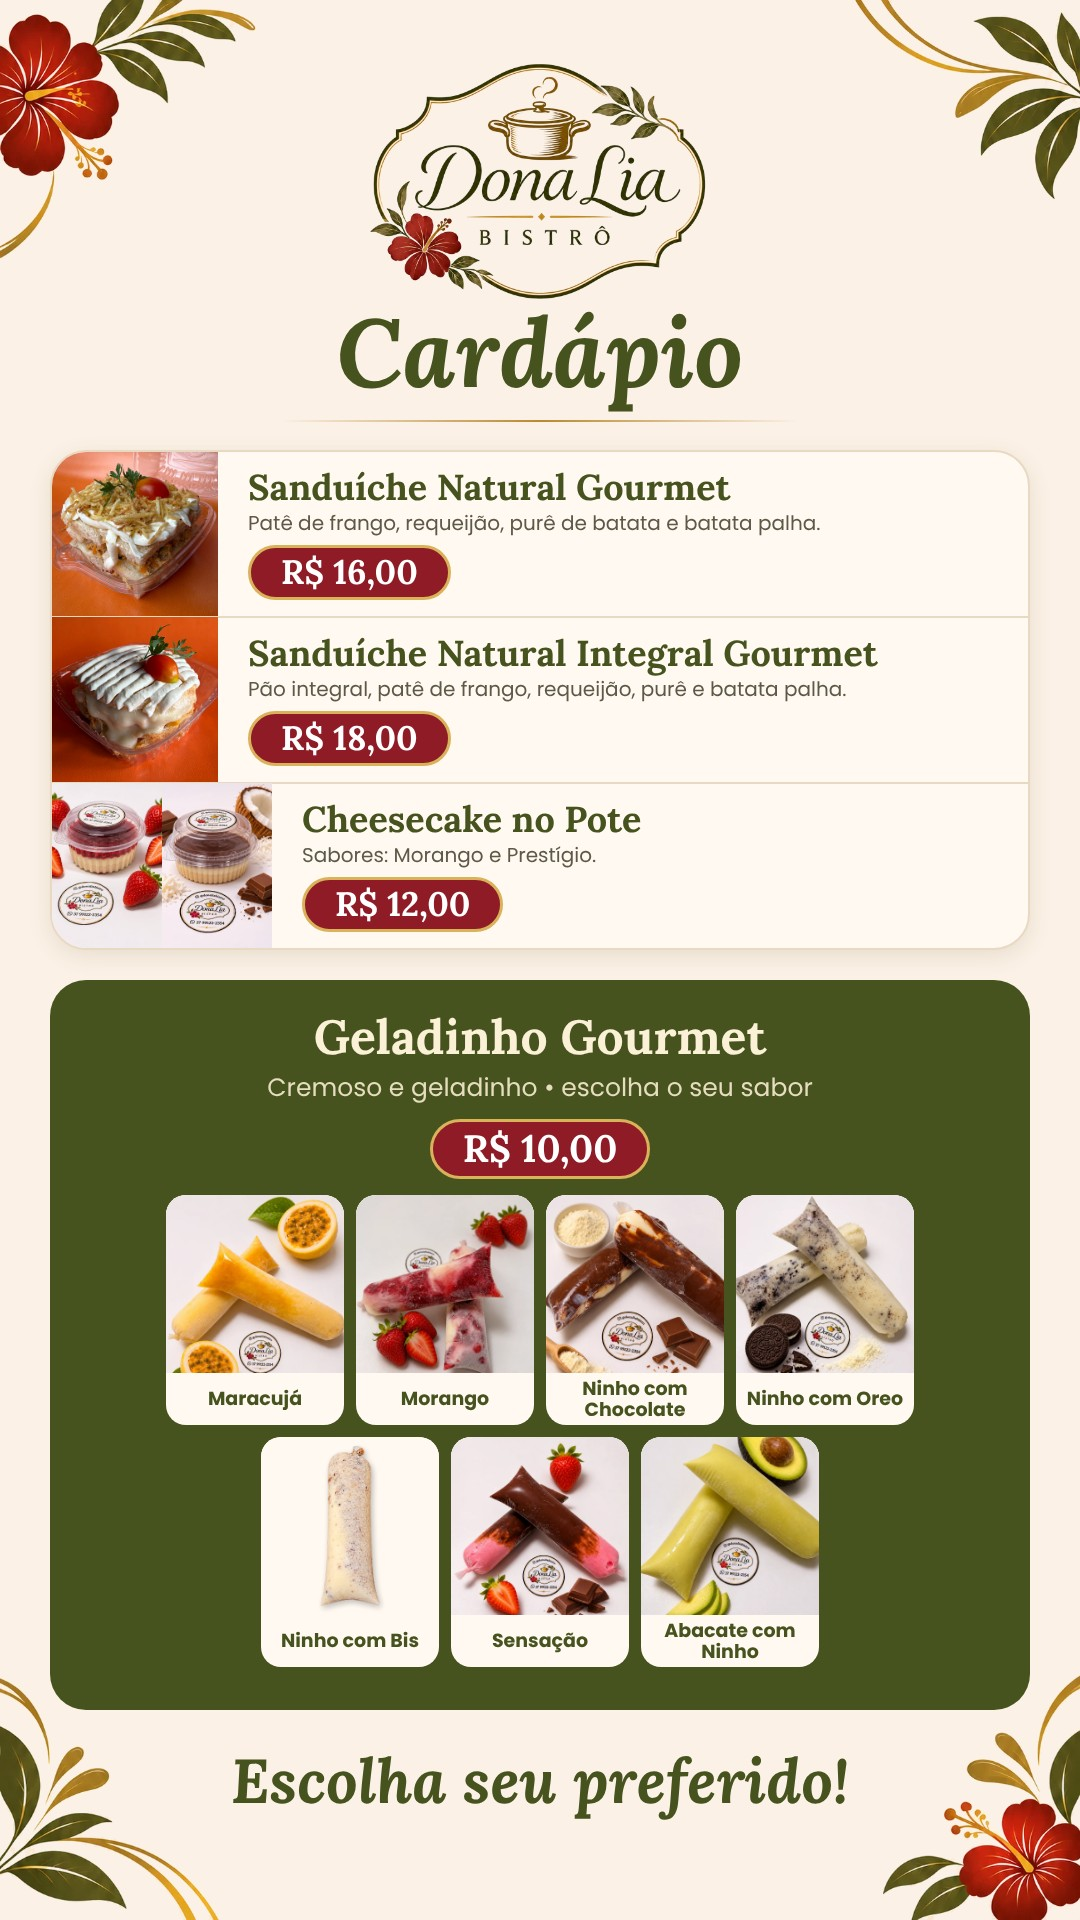
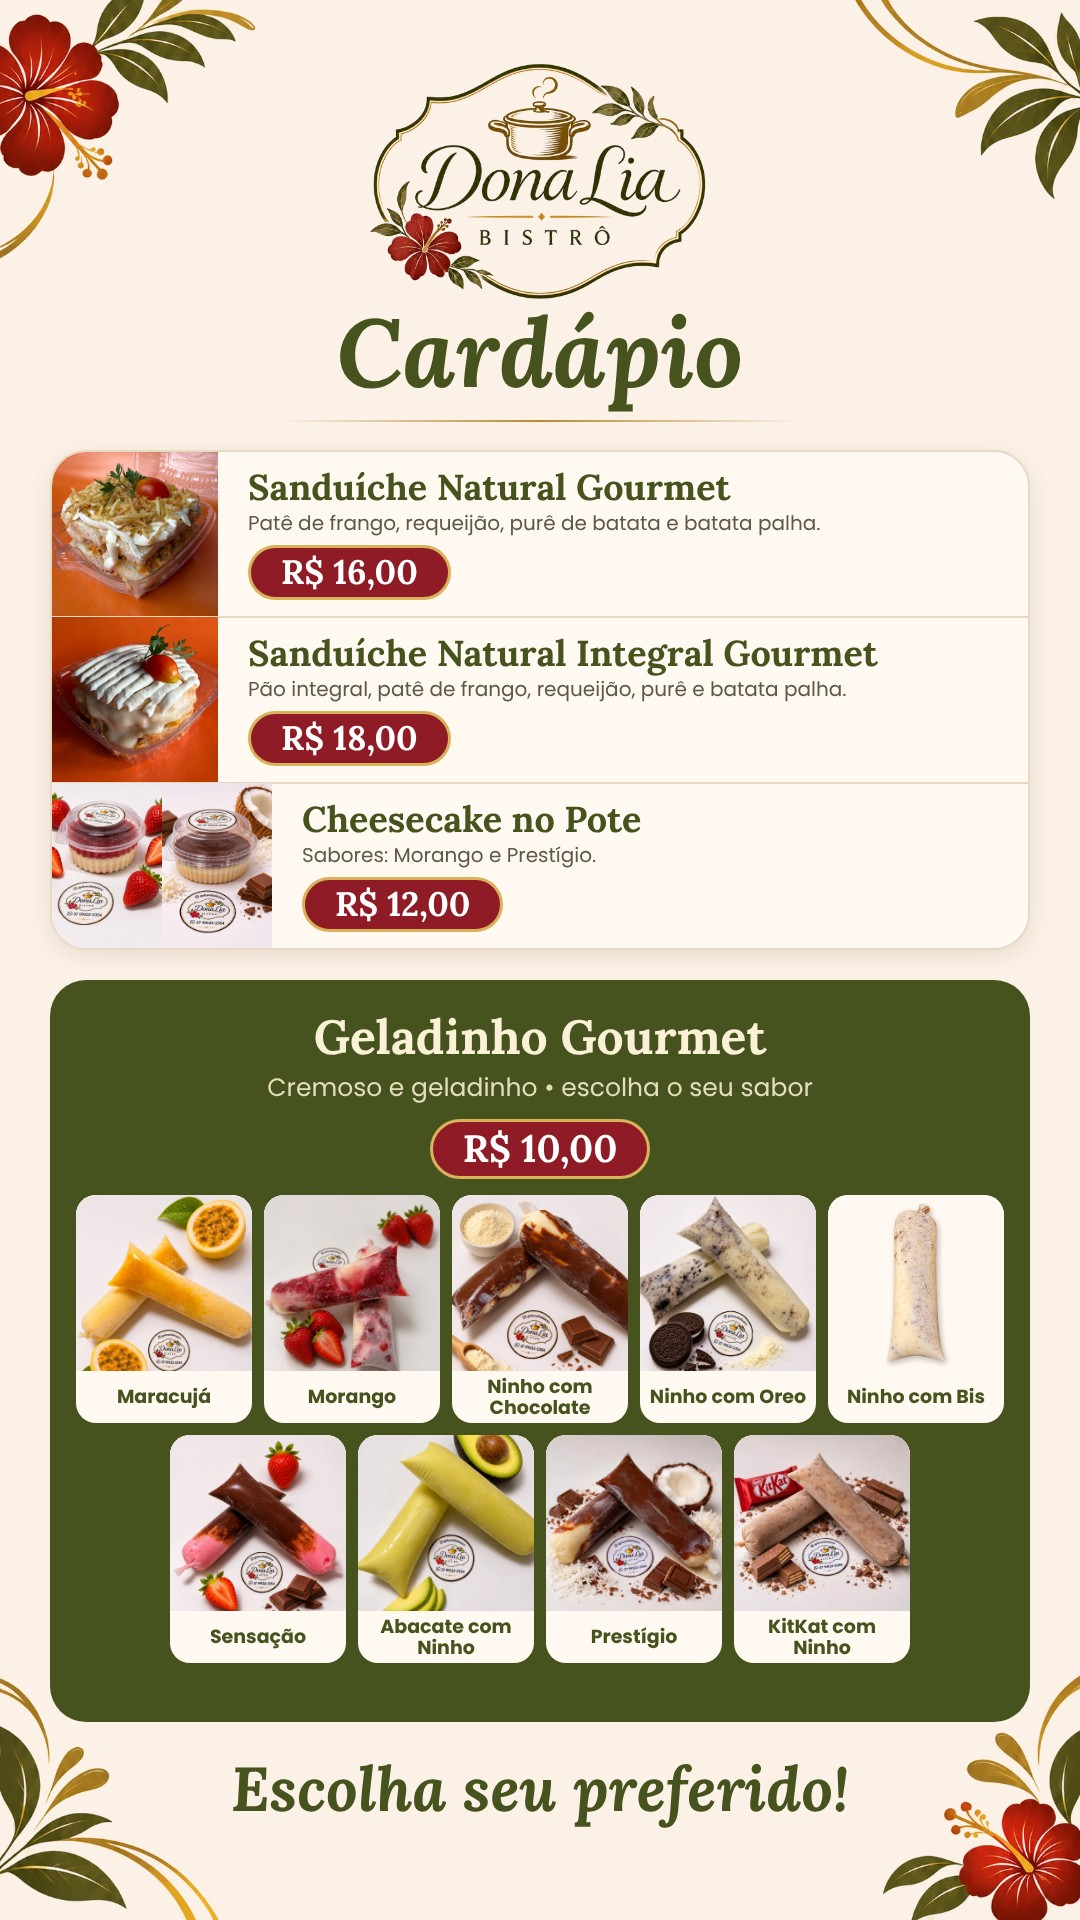
Geladinho: fotos do Prestígio e KitKat com Ninho no site e no cardápio
Claude-Session: https://claude.ai/code/session_01L7RU4Qf6ipUkkZnfFHStMk

Changed region(s): [[0.0306, 0.625, 0.9472, 0.9688]]

diff --git a/cardapio/index.html b/cardapio/index.html
@@ -12,6 +12,6 @@ img{display:block;width:100%;max-width:640px;height:auto}
 .b{position:sticky;bottom:0;width:100%;max-width:640px;padding:12px 16px calc(12px + env(safe-area-inset-bottom));background:linear-gradient(transparent,#FCF1E6 40%);text-align:center}
 .b a{display:block;background:#47531F;color:#fff;text-decoration:none;border-radius:99px;padding:14px 22px}
 </style></head><body>
-<img src="../images/cardapio.jpg" alt="Cardápio DonaLia Bistrô: sanduíche natural gourmet R$ 16,00; sanduíche natural integral gourmet R$ 18,00; geladinho gourmet R$ 10,00 nos sabores Maracujá, Morango, Ninho com Chocolate, Ninho com Oreo, Ninho com Bis, Sensação e Abacate com Ninho; cheesecake no pote R$ 12,00 nos sabores Morango e Prestígio." width="1080" height="1920">
+<img src="../images/cardapio.jpg" alt="Cardápio DonaLia Bistrô: sanduíche natural gourmet R$ 16,00; sanduíche natural integral gourmet R$ 18,00; geladinho gourmet R$ 10,00 nos sabores Maracujá, Morango, Ninho com Chocolate, Ninho com Oreo, Ninho com Bis, Sensação, Abacate com Ninho, Prestígio e KitKat com Ninho; cheesecake no pote R$ 12,00 nos sabores Morango e Prestígio." width="1080" height="1920">
 <div class="b"><a href="../#pedido">Fazer meu pedido</a></div>
 </body></html>
